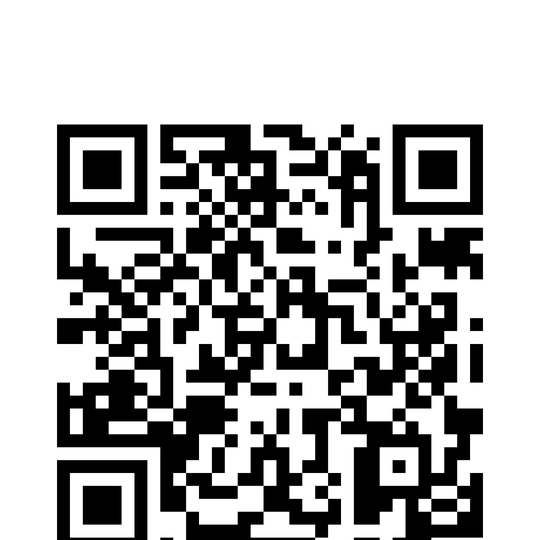
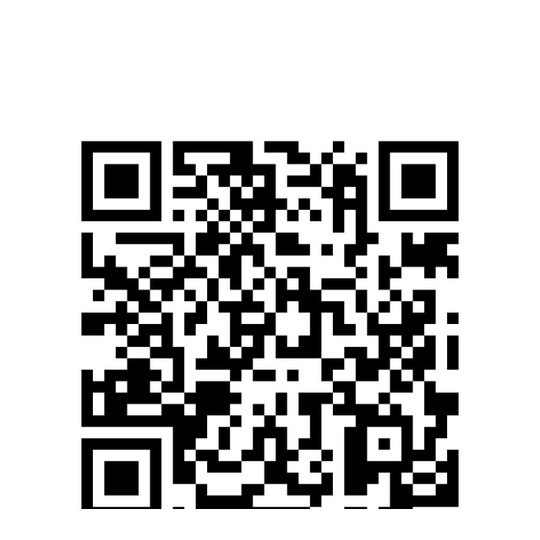
Checkpoint: fix: iOS QR code alignment — add quiet zone padding so it sits centered in its box
The iOS QR image had 0px margins (QR pattern touching all edges), causing it to appear misaligned in the 128x128 display box. Added ~31px white padding on all sides to match the Android QR code's margins. Renamed to ios-qr-d286ca7b.png (content-hashed to bust cache). Updated references in DownloadSection.tsx and DownloadCTA.tsx.

diff --git a/client/src/components/DownloadSection.tsx b/client/src/components/DownloadSection.tsx
@@ -36,7 +36,7 @@ export function DownloadSection() {
             <div className="w-32 h-32 bg-white p-2 rounded-xl shadow-sm border border-stone-100">
               <img
                 loading="lazy"
-                src="/images/qr-code.png"
+                src="/images/ios-qr-d286ca7b.png"
                 alt="Download on iOS QR Code"
                 className="w-full h-full object-contain"
               />

diff --git a/client/src/components/DownloadCTA.tsx b/client/src/components/DownloadCTA.tsx
@@ -59,7 +59,7 @@ export function DownloadCTA() {
           <div className="bg-white p-2 rounded-lg shadow-lg">
             <img
               loading="lazy"
-              src="/images/qr-code.png"
+              src="/images/ios-qr-d286ca7b.png"
               alt="Scan to download DentaSmart App"
               className="w-48 h-48 object-contain"
             />

diff --git a/todo.md b/todo.md
@@ -1704,3 +1704,4 @@
 # Fix - Jul 2, 2026
 
 - [x] Fix broken Android QR code on live site — moved from /manus-storage/ (broken in production) to /images/android-qr-842538bb.png (client/public, same pattern as iOS QR). Updated all 3 components: DownloadSection.tsx, DownloadCTA.tsx, AndroidEarlyAccess.tsx.
+- [x] Fix iOS QR code alignment — image had no quiet zone (0px margins), QR pattern was touching edges. Added 35px padding on all sides to match Android QR. Renamed to ios-qr-d286ca7b.png (content-hashed). Updated DownloadSection.tsx and DownloadCTA.tsx.
